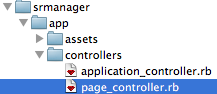
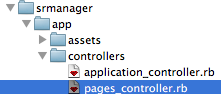
First pages

Changed region(s): [[0.0, 0.0, 1.0, 1.0]]

diff --git a/pag01.md b/pag01.md
@@ -373,15 +373,15 @@ O arquivo *config/routes.rb* é criado junto com aplicação e possui vários ex
 Edite o arquivo *config/routes.rb* e deixe-o assim:
 ```ruby
 Srmanager::Application.routes.draw do
-  root :to => "page#index"
+  root :to => "pages#index"
 end
 ```
 
 Em aplicações web é comum possuirmos as páginas que lidam com conteúdo dinâmico, que são aquelas por onde se manipula informações que são extraídas e salvas de algum repositório de dados, normalmente um banco de dados.  
 
-Mas há também as páginas estáticas, como uma *home page*, página institucional com informações da empresa, *about page* com informações básicas da própria aplicação, etc. Para estes casos, é muito comum na comunidade Rails o uso de um *controller* chamado *page* ou *site* que servirá apenas para servir suas páginas estáticas.  
+Mas há também as páginas estáticas, como uma *home page*, página institucional com informações da empresa, *about page* com informações básicas da própria aplicação, etc. Para estes casos, é muito comum na comunidade Rails o uso de um *controller* chamado *pages* ou *site* que servirá apenas para servir suas páginas estáticas.  
 
-No trecho de código que colocamos no *routes.rb* estamos indicando que, toda vez que alguém visitar a raiz da aplicação, ela deverá ser redirecionada a *ACTION* ***index*** do *CONTROLLER* ***page***.
+No trecho de código que colocamos no *routes.rb* estamos indicando que, toda vez que alguém visitar a raiz da aplicação, ela deverá ser redirecionada a *ACTION* ***index*** do *CONTROLLER* ***pages***.
 
 Salve o *routes.rb* e rode o teste:
 
@@ -402,7 +402,7 @@ Failures:
   1) Cadastra SRs quando enviando dados válidos redireciona para página de cadastro de SR
      Failure/Error: visit "/"
      ActionController::RoutingError:
-       uninitialized constant PageController
+       uninitialized constant PagesController
      # ./spec/requests/cadastra_srs_spec.rb:9:in `block (3 levels) in <top (required)>'
 ```
 
@@ -432,11 +432,11 @@ Voltando ao erro:
 ```ruby
 Failure/Error: visit "/"
 ActionController::RoutingError:
-  uninitialized constant PageController
+  uninitialized constant PagesController
 # ./spec/requests/cadastra_srs_spec.rb:9:in `block (3 levels) in <top (required)>'
 ```
 
-Bem, como instruímos o Rails a redirecionar os usuários que procuram a raiz da aplicação para *"page#index"*, vamos ter que criar este *controller* citado no erro, o ***PageController***.  
+Bem, como instruímos o Rails a redirecionar os usuários que procuram a raiz da aplicação para *"pages#index"*, vamos ter que criar este *controller* citado no erro, o ***PagesController***.  
 
 ## Criando entidades da aplicação
 
@@ -447,14 +447,14 @@ Lembra deste desenho?
 A grande maioria das entidades que usarmos nas aplicações, passarão por estes 3 componentes: o ***Controller***, o ***Model*** e a ***View***.
 
 Vamos começar criando o ***Controller*** que nosso teste está pedindo.  
-Conforme a imagem a abaixo, crie o arquivo *page_controller.rb* na pasta *app/controllers/* :
+Conforme a imagem a abaixo, crie o arquivo *pages_controller.rb* na pasta *app/controllers/* :
 
 ![](./img04.png)
 
 Para criarmos um controller no Rails, apenas extenda a classe ***ApplicationController***:
 
 ```ruby
-class PageController < ApplicationController
+class PagesController < ApplicationController
   
 end
 ```
@@ -470,16 +470,16 @@ Para economizar espaço, irei colar aqui apenas o trecho relevante do *output* d
 ```ruby
 Failure/Error: visit "/"
 AbstractController::ActionNotFound:
-  The action 'index' could not be found for PageController
+  The action 'index' could not be found for PagesController
 ```
 
-Bom, resolvemos o erro que reclamava do ***PageController***.  
+Bom, resolvemos o erro que reclamava do ***PagesController***.  
 Agora precisamos resolver o próximo erro, o da *action* ***index***.  
 
-Em Rails, *actions* são simples métodos dos *controllers*, portanto, no arquivo `page_controller.rb`, dentro da classe ***PageController*** defina o método ***index***:
+Em Rails, *actions* são simples métodos dos *controllers*, portanto, no arquivo `pages_controller.rb`, dentro da classe ***PagesController*** defina o método ***index***:
 
 ```ruby
-class PageController < ApplicationController
+class PagesController < ApplicationController
   def index
     
   end
@@ -496,7 +496,7 @@ Novo erro:
 ```ruby
 Failure/Error: visit "/"
  ActionView::MissingTemplate:
-   Missing template page/index, application/index with {:locale=>[:en], :formats=>[:html], :handlers=>[:erb, :builder]}. Searched in:
+   Missing template pages/index, application/index with {:locale=>[:en], :formats=>[:html], :handlers=>[:erb, :builder]}. Searched in:
      * "/Users/datherra/Devel/Ruby/Rails/apps/srmanager/app/views"
  # ./spec/requests/cadastra_srs_spec.rb:9:in `block (3 levels) in <top (required)>'
 ```
@@ -514,11 +514,11 @@ Até aqui ainda não colocamos nenhuma inteligência no *controller*, mas isso i
 Vamos detalhar esta linha do erro:
 
 ```ruby
-Missing template page/index, application/index with {:locale=>[:en], :formats=>[:html], :handlers=>[:erb, :builder]}
+Missing template pages/index, application/index with {:locale=>[:en], :formats=>[:html], :handlers=>[:erb, :builder]}
 ```
 
-* Missing template page/index  
-indica qual a página que está faltando, neste caso, http://servidor/page/index
+* Missing template pages/index  
+indica qual a página que está faltando, neste caso, http://servidor/pages/index
 * :locale=>[:en]  
 ajuda a definir qual template renderizar baseado no idioma detectado no navegador (fora do escopo deste tutorial)
 * :formats=>[:html]  
@@ -535,3 +535,12 @@ Deixe o arquivo *index.html* vazio mesmo.
 
 ***Teste*** (preciso colocar o comando aqui? Acho que não mais né?)  
 
+Novo erro:
+
+```ruby
+Failure/Error: click_link "Cadastrar SR"
+Capybara::ElementNotFound:
+  no link with title, id or text 'Cadastrar SR' found
+# (eval):2:in `click_link'
+# ./spec/requests/cadastra_srs_spec.rb:10:in `block (3 levels) in <top (required)>'
+```
